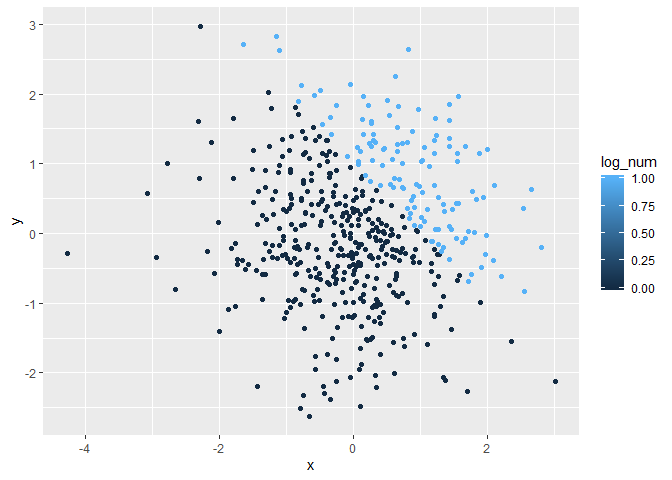
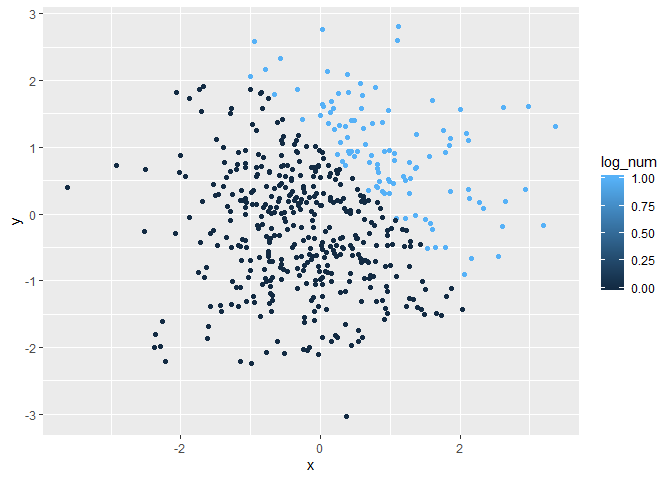
Minor changes to formatting and descriptions

diff --git a/p8105_hw1_jt3175.md b/p8105_hw1_jt3175.md
@@ -5,18 +5,11 @@ Julia Thompson
 
 ## Problem 1
 
-Below is code to create a simple data frame containing the following:
-
-  - a random sample of size 8 from a standard Normal distribution
-
-  - a logical vector indicating whether elements of the sample are
-    greater than 0
-
-  - a character vector of length 8
-
-  - a factor vector of length 8, with 3 different factor “levels”
-
-<!-- end list -->
+Below is code to create a simple data frame containing a random sample
+of size 8 from a standard normal distribution, a logical vector
+indicating whether elements of the sample are greater than 0, a
+character vector of length 8, and a factor vector of length 8 with 3
+different factor levels.
 
 ``` r
 simple_df1 = tibble(
@@ -27,7 +20,7 @@ simple_df1 = tibble(
 )
 ```
 
-If I attempt to take the mean of each variable in the dataframe, we
+If I attempt to take the mean of each variable in the dataframe, I
 obtain values for the numeric and logical variables, but see an error
 and end up with NA for the character and factor variables. This is what
 we would expect, since you cannot perform mathematical operations on
@@ -37,13 +30,13 @@ words.
 mean(pull(simple_df1, sample_norm))
 ```
 
-    ## [1] 0.2323774
+    ## [1] 0.1923939
 
 ``` r
 mean(pull(simple_df1, gr_th_0))
 ```
 
-    ## [1] 0.375
+    ## [1] 0.625
 
 ``` r
 mean(pull(simple_df1, vec_char))
@@ -65,8 +58,7 @@ variables are unable to be converted to numeric this way. This shows
 that, even though I have typed numbers in my character variable, R does
 not understand the meaning and cannot evaluate them. When we use the
 *as.numeric* function on the factor variable, each element assumes the
-value of it’s level’s index, which is not particularly helpful for
-analysis in most cases.
+value of it’s level’s index.
 
 ``` r
 as.numeric(pull(simple_df1, gr_th_0))
@@ -76,21 +68,21 @@ as.numeric(pull(simple_df1, vec_factor))
 
 The below code chunk tests three different scenarios:
 
-  - Convert the logical vector to numeric, and multiply the random
+1.  Convert the logical vector to numeric, and multiply the random
     sample by the result
 
-  - Convert the logical vector to a factor, and multiply the random
+2.  Convert the logical vector to a factor, and multiply the random
     sample by the result
 
-  - Convert the logical vector to a factor and then convert the result
+3.  Convert the logical vector to a factor and then convert the result
     to numeric, and multiply the random sample by the result
 
 The second scenario does not work because factor variables are
 categorical, so multiplicaiton cannot be performed. We see a key
 difference in logical versus numeric versus facor variables. Logical to
 numeric converts *true* to 1 and *false* to 0. However, logical to
-factor converts *true* to 1 and *false* to 2 because of the way factors
-index the components.
+factor converts *true* to 2 and *false* to 1 because of the way factors
+index the components (alphabetically).
 
 ``` r
 log_to_num = as.numeric(pull(simple_df1, gr_th_0))
@@ -98,46 +90,47 @@ rs_x_log_to_num = log_to_num * pull(simple_df1, sample_norm)
 
 log_to_fac = as.factor(pull(simple_df1, gr_th_0))
 rs_x_log_to_fac = log_to_fac * pull(simple_df1, sample_norm) # Factor variables are categorical, so this won't work
-```
 
-    ## Warning in Ops.factor(log_to_fac, pull(simple_df1, sample_norm)): '*' not
-    ## meaningful for factors
-
-``` r
 log_to_fac_to_num = as.numeric(log_to_fac)
 rs_x_log_to_fac_to_num = log_to_fac_to_num * pull(simple_df1, sample_norm)
 
 log_to_num
 ```
 
-    ## [1] 0 0 0 1 0 1 1 0
+    ## [1] 1 1 0 0 1 1 0 1
 
 ``` r
 log_to_fac
 ```
 
-    ## [1] FALSE FALSE FALSE TRUE  FALSE TRUE  TRUE  FALSE
+    ## [1] TRUE  TRUE  FALSE FALSE TRUE  TRUE  FALSE TRUE 
     ## Levels: FALSE TRUE
 
 ``` r
 log_to_fac_to_num
 ```
 
-    ## [1] 1 1 1 2 1 2 2 1
+    ## [1] 2 2 1 1 2 2 1 2
 
 ``` r
 rs_x_log_to_num
 ```
 
-    ## [1] 0.0000000 0.0000000 0.0000000 0.1854127 0.0000000 1.9321560 2.1865382
-    ## [8] 0.0000000
+    ## [1] 0.7519683 0.6709469 0.0000000 0.0000000 0.5860786 1.0606840 0.0000000
+    ## [8] 0.6291660
 
 ``` r
 rs_x_log_to_fac_to_num
 ```
 
-    ## [1] -0.4280574 -0.2423291 -0.6385973  0.3708255 -0.9504702  3.8643120
-    ## [7]  4.3730764 -0.1856334
+    ## [1]  1.5039366  1.3418937 -0.5018773 -0.9613492  1.1721572  2.1213680
+    ## [7] -0.6964658  1.2583320
+
+``` r
+rs_x_log_to_fac
+```
+
+    ## [1] NA NA NA NA NA NA NA NA
 
 ## Problem 2
 
@@ -153,9 +146,9 @@ simple_df2 = tibble(
 
 The above dataframe contains 5 variables *(x, y, gr\_th\_1, log\_num,
 log\_fac)* of 500 observations each. X and y are both normally
-distributed variables. X has a mean of 0.0331009, median of 0.0506869,
-and standard deviation of 0.9927146. The variable *gr\_th\_1* represents
-whether x + y is greater than 1. There are 125/500 (0.25) cases where
+distributed variables. X has a mean of -0.0269514, median of -0.0677381,
+and standard deviation of 1.0249318. The variable *gr\_th\_1* represents
+whether x + y is greater than 1. There are 105/500 (0.21) cases where
 x+y is greater than 1.
 
 Below are three scatterplots of y vs x. On the first, points are colored
